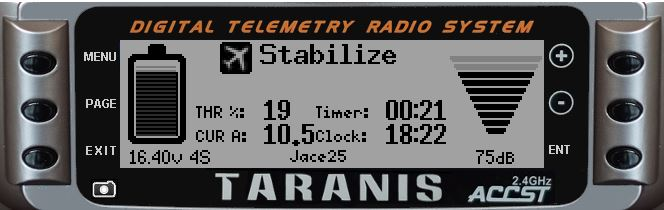
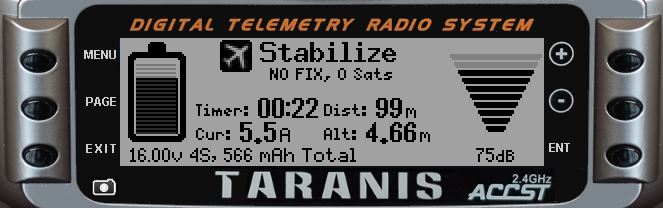
Updated Readme
Changed Pictures and Text regarding to new screen content

diff --git a/Readme.md b/Readme.md
@@ -2,7 +2,7 @@
 This Script should work with every Pixhawk (Pixhawk, Fixhawk, AUAV-X2, etc.) which
 is connected to a FrSky D-Receiver (D4R, D8R)
 
-It displays the voltage and current, beside the current time and a simple timer below the currently used flightmode.
+It displays the voltage, current and total comsumption, beside the altitude and distance from home below the currently used flightmode and 3D Fix informations.
 Also RSSI is displayed on the left side. All values are based on converted mavlink Data.
 ## Screenshots
 ![Displayed content while in user controlled mode](https://raw.githubusercontent.com/Jace25/LUA-Taranis-Pixhawk/master/lua1.JPG)
